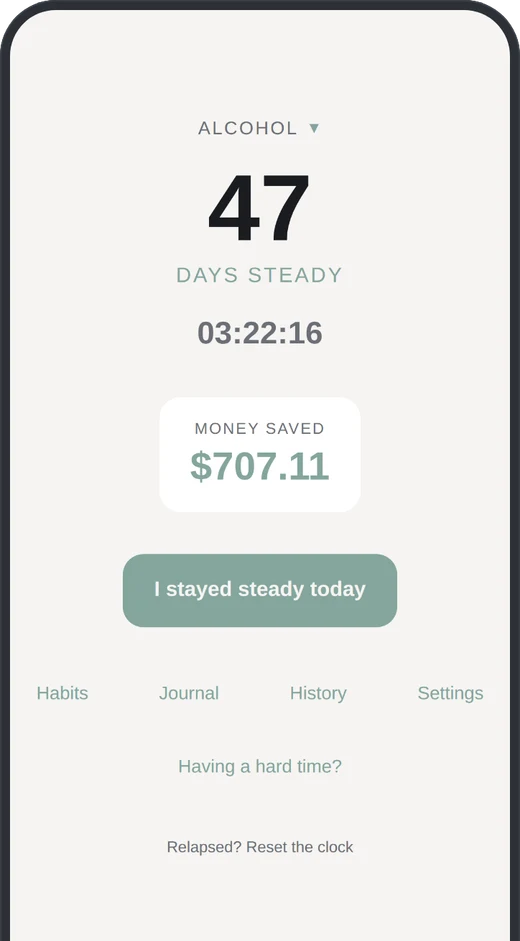
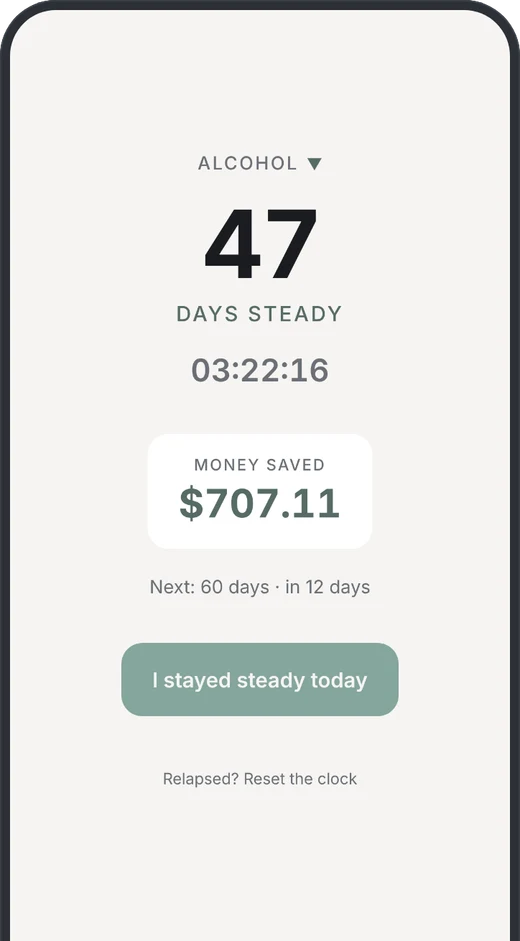
Add the 1.2 app images
Rendered from main at 1.2.0: the hero and link-preview card show Today with
the next-milestone line, and the screen strip shows the tab bar.

Claude-Session: https://claude.ai/code/session_01MTgYZ5WjsNwJxvnwtJL6QF

diff --git a/index.html b/index.html
@@ -177,7 +177,7 @@
         </div>
         <div class="hero-art">
           <img class="phone-shot" src="/assets/img/screens/dashboard-phone.webp" width="520" height="941"
-            alt="The Steady home screen for Alcohol: 47 days steady, a live clock at 03:22:13, $707.11 saved, and an &quot;I stayed steady today&quot; check-in button." />
+            alt="The Steady home screen for Alcohol: 47 days steady, a live clock at 03:22:13, $707.11 saved, the next milestone in 12 days, and an &quot;I stayed steady today&quot; check-in button." />
         </div>
       </div>
     </section>
